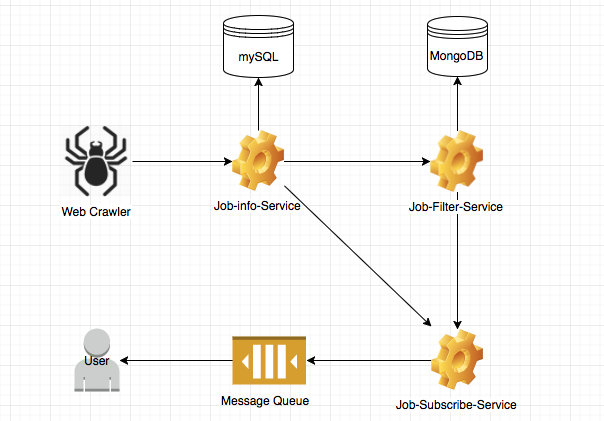
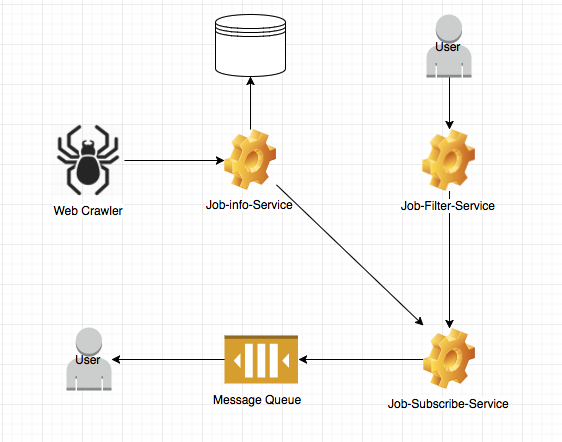
Project design

diff --git a/README.md b/README.md
@@ -9,3 +9,23 @@
 
 ## System Architecture
 ![alt image](job-search-architecture.png)
+
+### Web Crawler
+The Web Crawler is designed to extra job information from the websites and creat json files send to Job Info Service.
+
+### Job Info Service
+The Job Info Service support CRUD operations and storage the data into Database
+
+### Job Filter Service
+The Job Filter Service train logistic regression base on user training document.
+
+### Job Subscribe Service
+The Job Subscribe Service will get model information from filter service and get data from Job Info Service, then select jobs and seed to user.
+
+
+## Requirement
+* Java Platform (JDK) 8
+* Apache Maven
+* Docker
+
+## Intallation and Run
